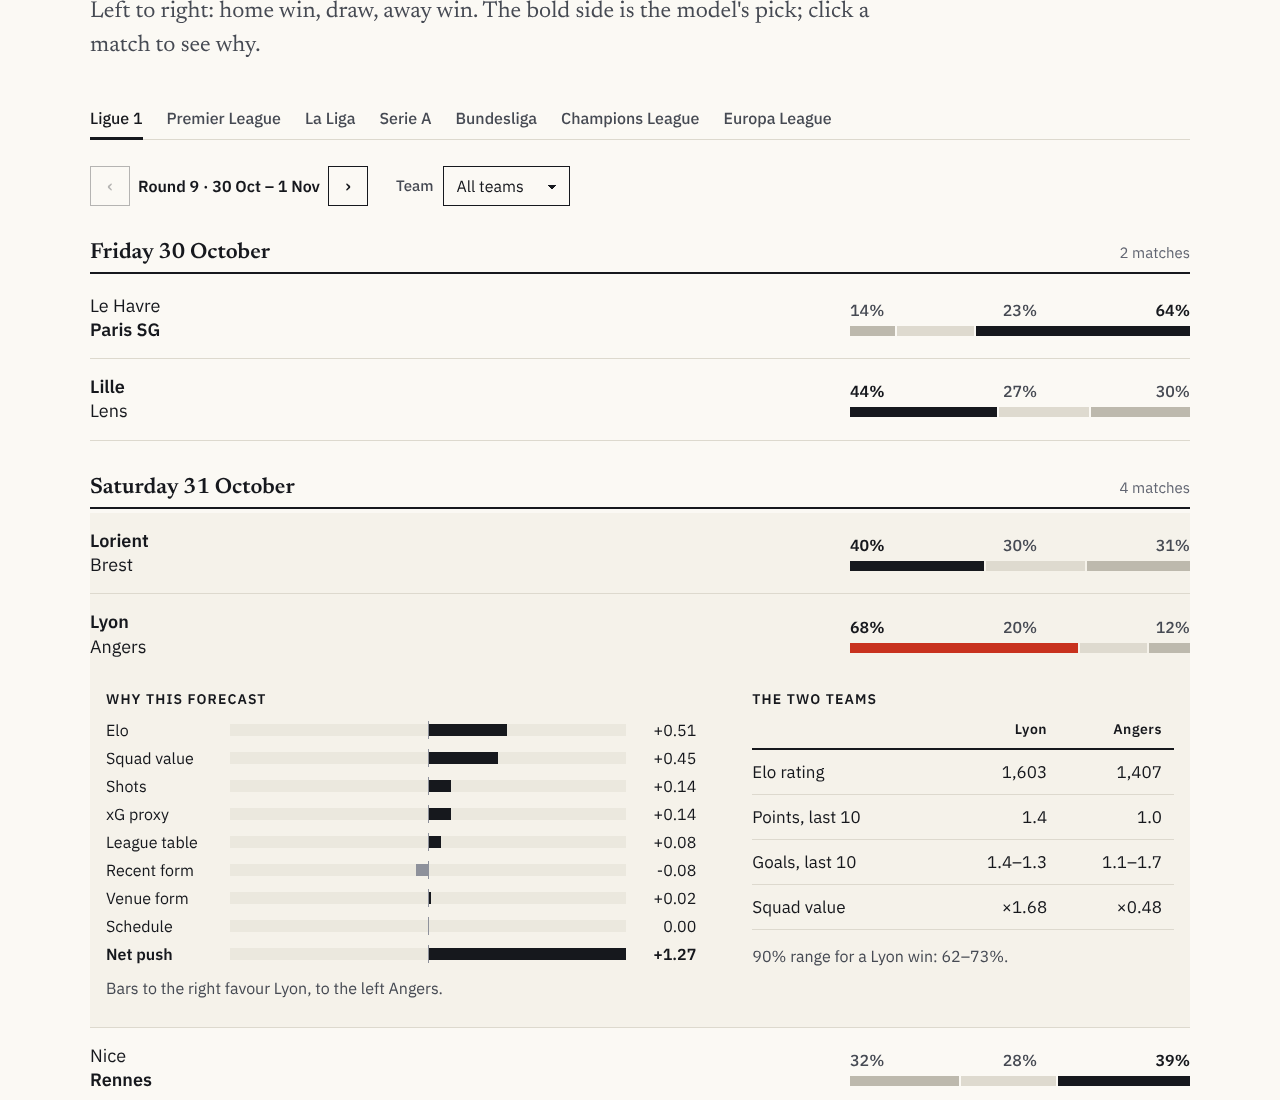
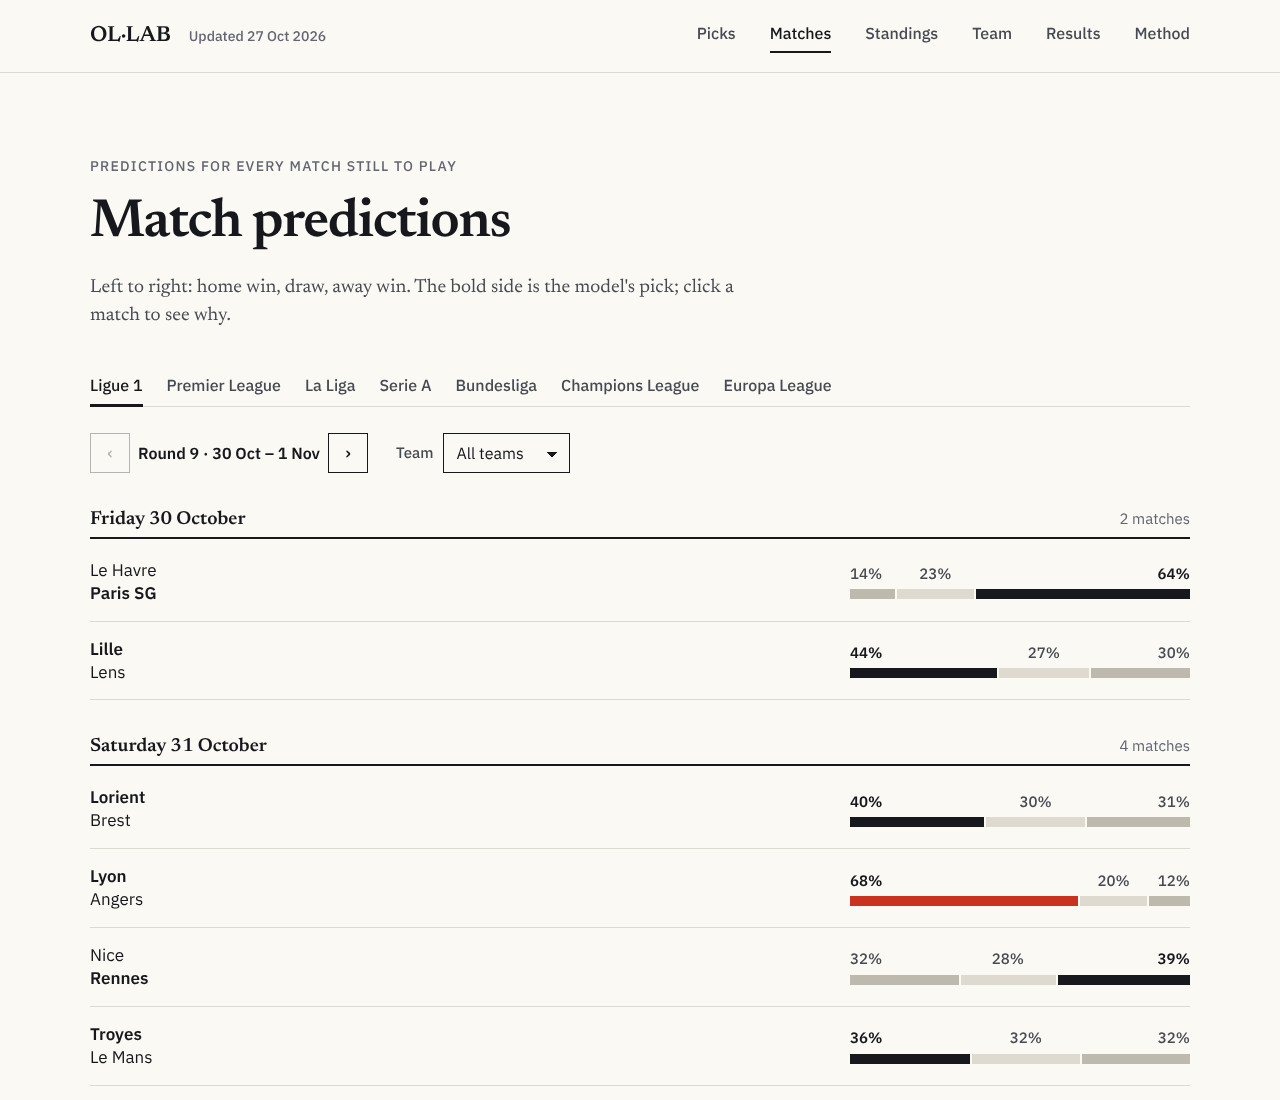
README: shorter and clearer, current screenshots, thanks

diff --git a/README.md b/README.md
@@ -1,32 +1,39 @@
-# OL·LAB — Can machine learning predict Olympique Lyonnais?
+# OL·LAB: predicting Olympique Lyonnais with machine learning
 
-*A leakage-free, walk-forward study of football match probabilities, season simulation and market efficiency in the five major European leagues, with Olympique Lyonnais (OL) as the case study.*
+Can a model predict football results better than Elo ratings or the bookmakers? This project tests it on the five major European leagues, with Olympique Lyonnais (OL) as the case study.
 
-**🌐 [Open the website](https://raw.githack.com/lacostetheo/ML-PREDICTION-OLYMPIQUE-LYONNAIS/main/site/ol-lab-standalone.html)** · **📄 [Read the paper (PDF)](reports/OL_ML_project.pdf)** · [Reproduce it](#reproducibility)
+**[Open the website](https://raw.githack.com/lacostetheo/ML-PREDICTION-OLYMPIQUE-LYONNAIS/main/site/ol-lab-standalone.html)**
 
-[![tests](https://github.com/lacostetheo/ML-PREDICTION-OLYMPIQUE-LYONNAIS/actions/workflows/tests.yml/badge.svg)](.github/workflows/tests.yml)
-![python](https://img.shields.io/badge/python-3.12-blue) ![license](https://img.shields.io/badge/license-MIT-green)
+**[Read the paper (PDF)](reports/OL_ML_project.pdf)**
 
 ![The model's picks](reports/figures/site_picks.png)
 
-## In 30 seconds
+## In short
 
-| | |
+**Model.** Multinomial logistic regression on 100 inputs (Elo, squad market value, recent form, shots, schedule), refitted every season.
+
+**Alternatives tested.** Gradient boosting, random forest, SVM, neural networks. None beats the logistic regression significantly, so the simplest model is kept.
+
+**Result.** Team strength (Elo and squad value) explains almost everything that can be predicted. The probabilities are well calibrated, but the bookmaker is still better (log loss 0.966 against 0.979), and adding our model to its prices adds nothing.
+
+**For OL (Ligue 1 2026/27, state on 27 October 2026).**
+
+- 54.6 expected points (80% interval 46 to 63)
+- average final position: 5.9
+- 23% chance of a Champions League place, 1% chance of the title
+- 4% chance of winning the Europa League
+- next match, Lyon - Angers: 68% win, 20% draw, 12% defeat
+
+## Where to look
+
+| What | Where |
 |---|---|
-| **Question** | Do ML models give better football-match probabilities than Elo ratings or the betting market? What do they say about OL? |
-| **Chosen model** | **Multinomial logistic regression** on 100 inputs (Elo, squad market value, recent form, shots, schedule), re-fitted every season. Boosting, random forest, SVM and neural networks were tested: **none beats it significantly**, so the simplest one is kept. |
-| **Answer** | Team strength (Elo, squad value) explains almost everything that is predictable. The probabilities are **well calibrated**, but the **bookmaker is better** (log loss 0.966 vs 0.979) and adding our models to its prices adds **nothing**. |
-| **For OL** | Ligue 1 2026/27: **54.6 expected points** (80 % interval 46–63), average final position 5.9, **23 % chance of a Champions League place**, 1 % of the title; 4 % to win the Europa League. Next: Lyon – Angers 68 % / 20 % / 12 % (win / draw / loss). |
-| **Rigour** | Features built only from the past (an automated test proves it), temporal validation, confidence intervals on every comparison, uncertainty on every forecast, negative results reported as such. |
-
-## Try it
-
-| | How |
-|---|---|
-| 🌐 **Interactive site** (no install) | [open the site](https://raw.githack.com/lacostetheo/ML-PREDICTION-OLYMPIQUE-LYONNAIS/main/site/ol-lab-standalone.html), or download **`site/ol-lab-standalone.html`** (one file: fonts and data included) and double-click it. Refreshed every Monday — see [Website](#website). |
-| 📊 **Streamlit dashboard** | `make dashboard` |
-| 📄 **Research-paper style report (13 pages)** | [`reports/OL_ML_project.pdf`](reports/OL_ML_project.pdf): the paper as written **before Paris SG – Lyon** (data through 21 Oct, snapshot 26 Oct, so its forecast for that match is a genuine pre-match forecast). The same paper rebuilt with the latest data (`make report`, needs LaTeX): [`reports/OL_ML_project_updated.pdf`](reports/OL_ML_project_updated.pdf). Earlier long version: [`reports/final_report.pdf`](reports/final_report.pdf) |
-| 📓 **Notebooks** | [`notebooks/`](notebooks/) (executed, 01 → 08) |
+| Website, no install | [open it](https://raw.githack.com/lacostetheo/ML-PREDICTION-OLYMPIQUE-LYONNAIS/main/site/ol-lab-standalone.html), or download `site/ol-lab-standalone.html` and double-click it |
+| Paper, 13 pages | [`reports/OL_ML_project.pdf`](reports/OL_ML_project.pdf), written before Paris SG - Lyon, so its forecast for that match is a real pre-match forecast |
+| Paper rebuilt with the latest data | [`reports/OL_ML_project_updated.pdf`](reports/OL_ML_project_updated.pdf) |
+| Dashboard | `make dashboard` |
+| Notebooks | [`notebooks/`](notebooks/), 01 to 08 |
+| Details of each phase | [`docs/`](docs/) |
 
 ## How it works
 
@@ -39,104 +46,143 @@ flowchart LR
   C -. compared with .-> F["Bookmaker · Elo · boosting<br/>neural network"]
 ```
 
-**Glossary.** *Elo*: a strength score updated after every match. *Log loss*: penalises confident wrong forecasts (lower is better; 1.075 = ignoring team quality, 0.966 = bookmaker). *Calibration*: a "70 %" forecast should come true ~70 % of the time. *Walk-forward*: train on the past, predict the next season, repeat. *Leakage*: using information from after the match. *Monte Carlo*: replay the season thousands of times with the model's probabilities.
+**Glossary**
 
-## Results (test seasons 2023 → 2026, 5,650 matches)
+- **Elo**: a strength score updated after every match.
+- **Log loss**: punishes confident wrong forecasts. Lower is better. 1.075 means ignoring team quality, 0.966 is the bookmaker.
+- **Calibration**: a "70%" forecast should come true about 70% of the time.
+- **Walk-forward**: train on the past, predict the next season, repeat.
+- **Leakage**: using information from after the match.
+- **Monte Carlo**: replay the season thousands of times with the model's probabilities.
 
-| Model | Accuracy | **Log loss** [95 % CI] | Brier | Calibration error |
+## Results
+
+Test seasons 2023 to 2026, 5,650 matches.
+
+| Model | Accuracy | Log loss [95% CI] | Brier | Calibration error |
 |---|---|---|---|---|
-| Baseline (class frequencies) | 43.2 % | 1.0754 [1.069, 1.082] | 0.651 | 0.012 |
-| Elo | 52.5 % | 0.9892 [0.979, 0.999] | 0.590 | 0.017 |
-| Poisson goals | 52.0 % | 0.9907 [0.980, 1.001] | 0.591 | 0.022 |
-| **Logistic regression (chosen)** | 53.2 % | **0.9794** [0.969, 0.990] | 0.584 | 0.017 |
-| Gradient boosting | 52.9 % | 0.9787 [0.968, 0.989] | 0.583 | 0.020 |
-| Neural network (MLP) | 52.9 % | 0.9799 [0.970, 0.990] | 0.584 | 0.021 |
-| Ensemble of the three | 53.0 % | 0.9781 [0.968, 0.988] | 0.583 | 0.017 |
-| *Bookmaker (Bet365)* | *53.9 %* | *0.9659* [0.956, 0.976] | *0.574* | *0.022* |
+| Baseline (class frequencies) | 43.2% | 1.0754 [1.069, 1.082] | 0.651 | 0.012 |
+| Elo | 52.5% | 0.9892 [0.979, 0.999] | 0.590 | 0.017 |
+| Poisson goals | 52.0% | 0.9907 [0.980, 1.001] | 0.591 | 0.022 |
+| **Logistic regression (chosen)** | 53.2% | **0.9794** [0.969, 0.990] | 0.584 | 0.017 |
+| Gradient boosting | 52.9% | 0.9787 [0.968, 0.989] | 0.583 | 0.020 |
+| Neural network (MLP) | 52.9% | 0.9799 [0.970, 0.990] | 0.584 | 0.021 |
+| Ensemble of the three | 53.0% | 0.9781 [0.968, 0.988] | 0.583 | 0.017 |
+| *Bookmaker (Bet365)* | *53.9%* | *0.9659* [0.956, 0.976] | *0.574* | *0.022* |
 
 ![Log loss of the forecasters on the test seasons](reports/figures/final_logloss.png)
 
-- **Logistic regression beats Elo** (−0.0098, CI [−0.0137, −0.0060]); **boosting and the neural network do not beat it** (−0.0007 and +0.0005, CIs contain 0); **the bookmaker beats everyone** (+0.0136, CI [+0.0093, +0.0178]).
-- **Draws are essentially unpredictable** (the draw is the most likely outcome in 6 of 5,650 matches), so accuracy is a weak summary; probabilistic scores are the right yardstick.
-- **What explains results?** Elo and squad market value dominate; recent form and shots add a little; rest, league position and venue form add nothing ([interpretation](docs/phase7_interpretability.md)).
-- **Does updating the weights as results arrive help?** No measurable gain: the adaptivity already lives in the Elo and form features.
-- **Models vs market (finance extension).** Pooling model and market probabilities, the optimal weight on our model is **0.00**: the market already contains everything the models know (average margin 5.5 %). Purely an efficiency test — no betting strategy is built.
-- **Ablation.** Elo alone 0.9957 → + form 0.9931 → + shots 0.9887 → + table/fatigue 0.9890 (no gain) → + squad value 0.9870.
+- The logistic regression beats Elo (-0.0098, CI [-0.0137, -0.0060]).
+- Boosting and the neural network do not beat it (-0.0007 and +0.0005, the intervals contain 0).
+- The bookmaker beats everyone (+0.0136, CI [+0.0093, +0.0178]).
+- Draws are almost impossible to predict: the draw is the most likely outcome in only 6 of 5,650 matches. Accuracy is therefore a weak summary, and log loss is the better yardstick.
+- What explains results: Elo and squad value dominate. Recent form and shots add a little. Rest, league position and venue form add nothing ([details](docs/phase7_interpretability.md)).
+- Updating the weights as results arrive brings no measurable gain.
+- Pooling our probabilities with the market's, the best weight on our model is 0.00. The market already contains what the model knows. This is an efficiency test only, no betting strategy is built.
+- Ablation: Elo alone 0.9957, plus form 0.9931, plus shots 0.9887, plus table and fatigue 0.9890 (no gain), plus squad value 0.9870.
 
 Full discussion: [`docs/final_evaluation.md`](docs/final_evaluation.md).
 
-## OL predictions and season simulation (state: 27 October 2026)
+## OL and the season simulation
 
-OL is **6th in Ligue 1 by Elo** after a 0–2 defeat at Paris SG on 26 October (the model's pick, at 63 %), 5th by squad value (defence 10th) and 10th for recent form. Forecasts carry two kinds of uncertainty: model (100 bootstrap refits) and team strength (Elo ±60 points). The Monte Carlo simulator was **backtested** on 2023–2025: error on final points **6.4 vs 8.9** for the naive reference, calibrated probabilities — but its "80 %" intervals covered only 72 %, so read them as lower bounds.
+OL is 6th in Ligue 1 by Elo after the 0-2 defeat at Paris SG on 26 October (the model had picked Paris at 63%). It is 5th by squad value and 10th for recent form.
 
-![OL position](reports/figures/sim_ol_position.png)
+Each forecast carries two uncertainties: the model (100 bootstrap refits) and team strength (Elo, plus or minus 60 points).
 
-| Ligue 1 2026/27 | Expected points [80 %] | Title | Champions League (top 3) | Top 6 | Relegation |
+The simulator was backtested on 2023 to 2025. The error on final points is 6.4, against 8.9 for the naive reference. Its "80%" intervals only covered 72% of cases, so read them as lower bounds.
+
+![OL final position](reports/figures/sim_ol_position.png)
+
+| Ligue 1 2026/27 | Expected points [80%] | Title | Champions League (top 3) | Top 6 | Relegation |
 |---|---|---|---|---|---|
-| Paris SG | 73.0 [65–81] | 83.8 % | 97.8 % | 99.9 % | 0 % |
-| Monaco | 60.5 [52–69] | 6.6 % | 55.0 % | 87.3 % | 0 % |
-| **Lyon** | **54.6 [46–63]** | **1.4 %** | **22.8 %** | **60.9 %** | **< 0.1 %** |
+| Paris SG | 73.0 [65-81] | 83.8% | 97.8% | 99.9% | 0% |
+| Monaco | 60.5 [52-69] | 6.6% | 55.0% | 87.3% | 0% |
+| **Lyon** | **54.6 [46-63]** | **1.4%** | **22.8%** | **60.9%** | **< 0.1%** |
 
-European slots are assumptions (`configs/leagues.json`). OL also plays the **Europa League** this season (4 % to win it, see [`docs/europe_ucl.md`](docs/europe_ucl.md)). The phase reports below describe the state when each phase was run (up to 26 October 2026): [`docs/phase8_ol_predictions.md`](docs/phase8_ol_predictions.md), [`docs/phase9_season_simulation.md`](docs/phase9_season_simulation.md).
+European places are assumptions (`configs/leagues.json`). OL also plays the Europa League this season, see [`docs/europe_ucl.md`](docs/europe_ucl.md).
+
+Reports: [`docs/phase8_ol_predictions.md`](docs/phase8_ol_predictions.md) and [`docs/phase9_season_simulation.md`](docs/phase9_season_simulation.md).
 
 ## Website
 
 ![Match predictions](reports/figures/site_matches.png)
 
-A static site (HTML + JavaScript, no server; `site/ol-lab-standalone.html` is the same site in one file, with fonts and data embedded) in an editorial style: paper background, serif headlines, one accent colour reserved for Lyon. Six pages:
+Six pages:
 
-1. **Picks** — the model's pick in each of the seven competitions (five leagues, Champions League, Europa League) with its probability and the clubs just behind, then Lyon: next three matches, where it is expected to finish, and the record of the last seven days. Rows are labelled "clear favourite", "open race" or "no clear favourite" so that a 14 % pick is not read as a certainty.
-2. **Matches** — predictions for **every match still to play** in the seven competitions, by round or by team; click a league match to see how Elo, squad value, form… add up to the forecast (exact for a logistic regression).
-3. **Standings** — projected final tables (expected points with their 80 % range, title / Champions League / Europe / relegation odds) and projected league phases of the two cups.
-4. **Team** — any club of the five leagues: key numbers, next matches, distribution of its final position, Elo since 2016 against the league.
-5. **Results** — every recent match with the probabilities given before kick-off and what happened, accuracy and log loss against the bookmaker, a calibration table. These are walk-forward forecasts recomputed after the fact, not forecasts published in advance.
-6. **Method** — the chosen model and its equation, the comparison with the other forecasters, limits.
+1. **Picks**: the model's pick in each competition (five leagues, Champions League, Europa League), then Lyon's next matches and where it should finish.
+2. **Matches**: forecasts for every match still to play. Click a league match to see how Elo, squad value and form add up to the forecast.
+3. **Standings**: projected final tables with title, Europe and relegation odds.
+4. **Team**: any club of the five leagues, with its Elo since 2016.
+5. **Results**: the recent matches, the probabilities given before kick-off and what happened. These forecasts are recomputed after the fact, they were not published in advance.
+6. **Method**: the model, the comparison with other forecasters, the definition of Elo, the limits.
 
-*Calendars:* openfootball (CC0) for four leagues, Maxifoot for Ligue 1, Wikipedia for the European cups; dates can change, and a match still unplayed after its date is flagged "postponed". All numbers are precomputed by Python; the browser does no machine learning.
+**Weekly update.** Every Monday, `.github/workflows/weekly.yml` downloads the new results, refits the model, reruns the simulations and republishes the site. The update date is shown in the header and the footer. The paper is not regenerated.
 
-**Updating.** The workflow `.github/workflows/weekly.yml` runs every Monday (and on demand from the Actions tab): it downloads the new results and calendars, refits the model, resimulates the competitions, rebuilds `site/data.js` and republishes the site, which shows its last update date in the header and footer. The paper in `reports/` is never regenerated by it. It only runs once the file is on `main`, with Pages set to "GitHub Actions" and workflow permissions set to read and write. By hand: `make weekly` (about 40 minutes, needs internet).
+For this to run, GitHub Pages must be set to "GitHub Actions" (Settings, Pages) and the workflow permissions to "Read and write" (Settings, Actions, General). By hand: `make weekly` (about 40 minutes, needs internet).
 
-**Publishing:** merge to `main`, then *Settings → Pages → Source: GitHub Actions*; `.github/workflows/pages.yml` deploys `site/`.
+Calendars come from openfootball (four leagues), Maxifoot (Ligue 1) and Wikipedia (European cups). A match still unplayed after its date is flagged as postponed. The browser does no machine learning: every number is precomputed in Python.
 
-## Method, in brief
+## Method
 
-- **Data**: [football-data.co.uk](https://football-data.co.uk/data.php) results, shots and odds (private, non-commercial use; raw files are **not** redistributed), the CC0 [Transfermarkt dataset](https://github.com/dcaribou/transfermarkt-datasets) for squad values, calendars (openfootball, Maxifoot) and the European fixtures (Wikipedia) for display. Rejected: FBref advanced data (removed Jan 2026), Understat (`robots.txt` forbids it), ClubElo (unreachable). All terms, limits and biases: [`docs/data_sources.md`](docs/data_sources.md).
-- **No leakage**: rolling windows shifted by one match; Elo stored before its update; squad values dated before the snapshot; bookmaker odds never a feature. An **automated perturbation test** replaces every result from a cutoff onward by random values and requires earlier features to be bit-for-bit identical (it fails on two deliberately injected bugs); another test shows features of *future* fixtures equal the training features exactly. Details: [`docs/features.md`](docs/features.md).
-- **Two data lessons**: the "xG proxy" is just `0.287 × shots on target`; variables counting matches-seen-so-far are a calendar clock — removed from the final feature set.
-- **Validation**: train 2011–2020 → validation 2021–22 → test 2023–2026 used once, walk-forward by season. Primary metric log loss (a proper scoring rule); differences tested by a paired block bootstrap (calendar weeks).
-- **Models**: scikit-learn only (no Dropout/BatchNorm: replaced by L2, few epochs, seed averaging). LSTM/GRU deliberately not built.
+**Data.** Results, shots and odds from [football-data.co.uk](https://football-data.co.uk/data.php) (private, non-commercial use, raw files are not redistributed). Squad values from the CC0 [Transfermarkt dataset](https://github.com/dcaribou/transfermarkt-datasets). Rejected: FBref advanced data (removed in January 2026), Understat (`robots.txt` forbids it), ClubElo (unreachable). Terms and biases: [`docs/data_sources.md`](docs/data_sources.md).
+
+**No leakage.**
+
+- Rolling windows are shifted by one match.
+- Elo is stored before it is updated.
+- Squad values are dated before the snapshot.
+- Bookmaker odds are never a feature.
+- An automated test replaces every result after a cutoff with random values and checks that earlier features are identical. It fails on two deliberately injected bugs.
+
+Details: [`docs/features.md`](docs/features.md).
+
+**Two data lessons.** The "xG proxy" is only `0.287 x shots on target`. Variables that count matches seen so far act as a calendar clock, so they were removed.
+
+**Validation.** Train 2011-2020, validate 2021-22, test 2023-2026 (used once), walk-forward by season. Main metric: log loss. Differences are tested with a paired block bootstrap by calendar week.
+
+**Models.** scikit-learn only. No LSTM or GRU.
 
 ## Limitations
 
-No injuries, line-ups or coaching information (the likely source of the gap to the bookmaker); no real xG; squad values are a crowd-sourced snapshot (June 2026) with 13 unmatched clubs; Bet365 pre-match prices with simple margin removal; few validation windows; SVM under-tuned; simulation intervals too narrow; UEFA slots assumed; Wikipedia's Champions League page lagged (29 of the 54 matches played on 27 October were recorded; the others are simulated); football-data.co.uk limits use to private, non-commercial purposes.
+- No injuries, line-ups or coaching information. This is the likely source of the gap to the bookmaker.
+- No real xG.
+- Squad values are a crowd-sourced snapshot (June 2026), with 13 unmatched clubs.
+- Bookmaker prices are Bet365 pre-match, with a simple margin removal.
+- Few validation windows, SVM under-tuned, simulation intervals too narrow.
+- UEFA places are assumed.
+- Wikipedia's Champions League page lags: 29 of the 54 matches played on 27 October were recorded, the others are simulated.
 
-## Reproducibility
+## Reproduce
 
 ```bash
-git clone https://github.com/lacostetheo/ML-PREDICTION-OLYMPIQUE-LYONNAIS && cd ML-PREDICTION-OLYMPIQUE-LYONNAIS
-git checkout claude/olympique-lyonnais-ml-prediction-guhzl2     # until merged to main
-pip install -r requirements.txt        # Python 3.12; or: conda env create -f environment.yml
-make pipeline     # data → features → simulator backtest → OL predictions → simulations (~25 min, needs internet)
-make site         # export site data + build site/ol-lab-standalone.html
-make weekly       # after each round: new results → refit → simulations → Europe → site (~40 min)
-make report       # the paper (needs LaTeX)
-make dashboard    # Streamlit app
-make all          # every experiment (~1 h)        make test   # 26 tests incl. the leakage test
+git clone https://github.com/lacostetheo/ML-PREDICTION-OLYMPIQUE-LYONNAIS
+cd ML-PREDICTION-OLYMPIQUE-LYONNAIS
+pip install -r requirements.txt     # Python 3.12, or: conda env create -f environment.yml
+
+make pipeline    # data, features, backtest, OL predictions, simulations (~25 min, needs internet)
+make site        # export site data and build site/ol-lab-standalone.html
+make weekly      # after each round: new results, refit, simulations, Europe, site (~40 min)
+make report      # the paper (needs LaTeX)
+make dashboard   # Streamlit app
+make all         # every experiment (~1 h)
+make test        # 26 tests, including the leakage test
 ```
 
-Seeds are fixed and raw data are downloaded (not committed). Because the current season and fixture list refresh on each run, re-running later includes newer matches; committed tables correspond to the state of **27 October 2026** (results through 26 October). Per-phase reports are in [`docs/`](docs/), every number in `reports/tables/`.
+Seeds are fixed and raw data is downloaded, not committed. Re-running later includes newer matches: the committed tables correspond to 27 October 2026 (results through 26 October).
 
 ```
-├── site/                 # website (index.html, app.js, style.css, data.js, fonts/)
-├── app/streamlit_app.py  # dashboard
-├── src/olpred/           # data/ features/ models/ evaluation/ predict/ viz/ + run_*.py entry points
-├── notebooks/            # 01 exploration … 08 final evaluation (executed)
-├── docs/                 # data sources, features, one report per phase
-├── reports/              # OL_ML_project.pdf (paper), final_report.pdf/.md, tables/, figures/
-├── configs/leagues.json  # league slots (assumptions, flagged)
-└── tests/                # leakage, metrics, online learning, dashboard, site data
+site/                 website (index.html, app.js, style.css, data.js, fonts/)
+app/streamlit_app.py  dashboard
+src/olpred/           data, features, models, evaluation, predictions, charts
+notebooks/            01 exploration to 08 final evaluation
+docs/                 data sources, features, one report per phase
+reports/              paper (PDF), tables, figures
+configs/leagues.json  league places (assumptions)
+tests/                leakage, metrics, online learning, dashboard, site data
 ```
 
 ---
 
-*Author: Théo Lacoste — EDHEC Business School (BBA). Academic project; **not betting advice**. Code under the MIT licence; data subject to their own terms (see `docs/data_sources.md`).*
+Author: Théo Lacoste, EDHEC Business School (BBA). Academic project, not betting advice. Code under the MIT licence, data under its own terms (see `docs/data_sources.md`).
+
+I thank my machine learning courses and my internship as a data scientist, which helped me a lot on this project.
